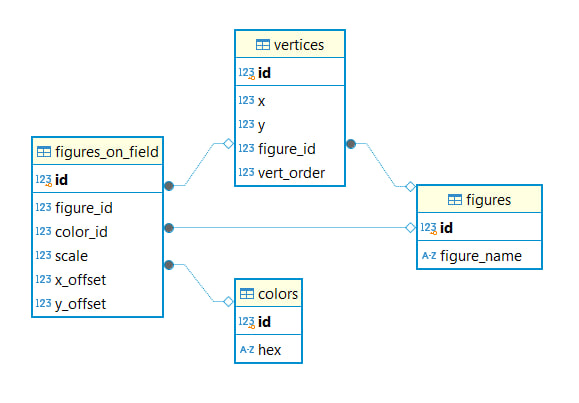
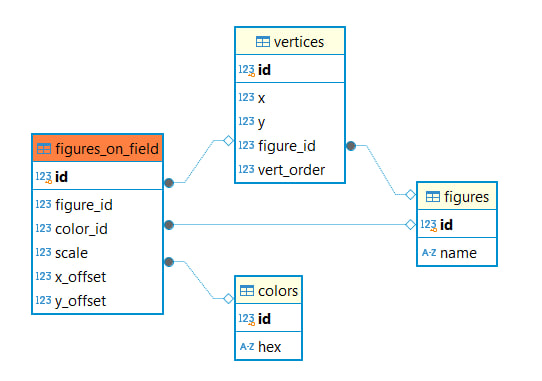
fn -> n

Changed region(s): [[0.0295, 0.0577, 0.9446, 0.8373], [0.3542, 0.664, 0.5609, 0.9528]]

diff --git a/task3/db_filler.py b/task3/db_filler.py
@@ -121,7 +121,7 @@ class DBFiller:
             figures.append(
                 {
                     "id": f_index,
-                    "figure_name": "".join(random.choices(string.ascii_letters, k=5)),
+                    "name": "".join(random.choices(string.ascii_letters, k=5)),
                 }
             )
 
